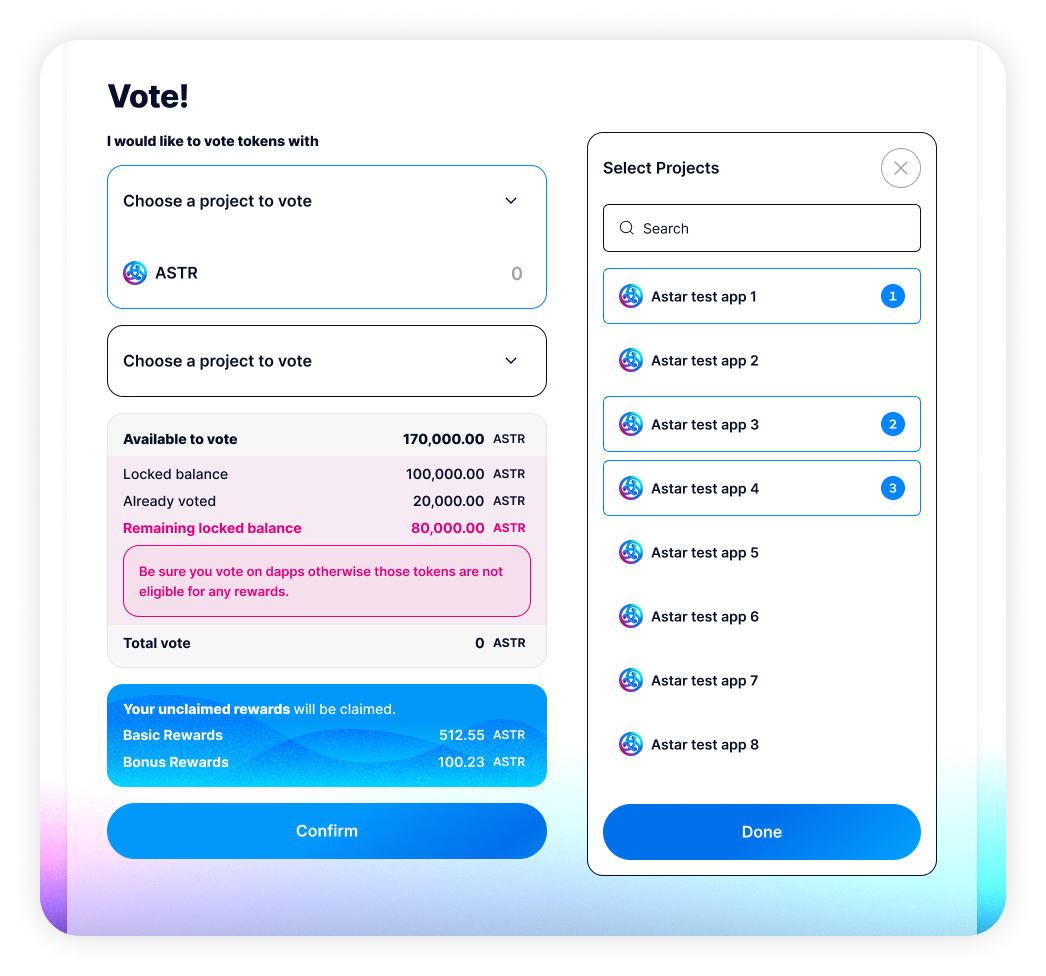
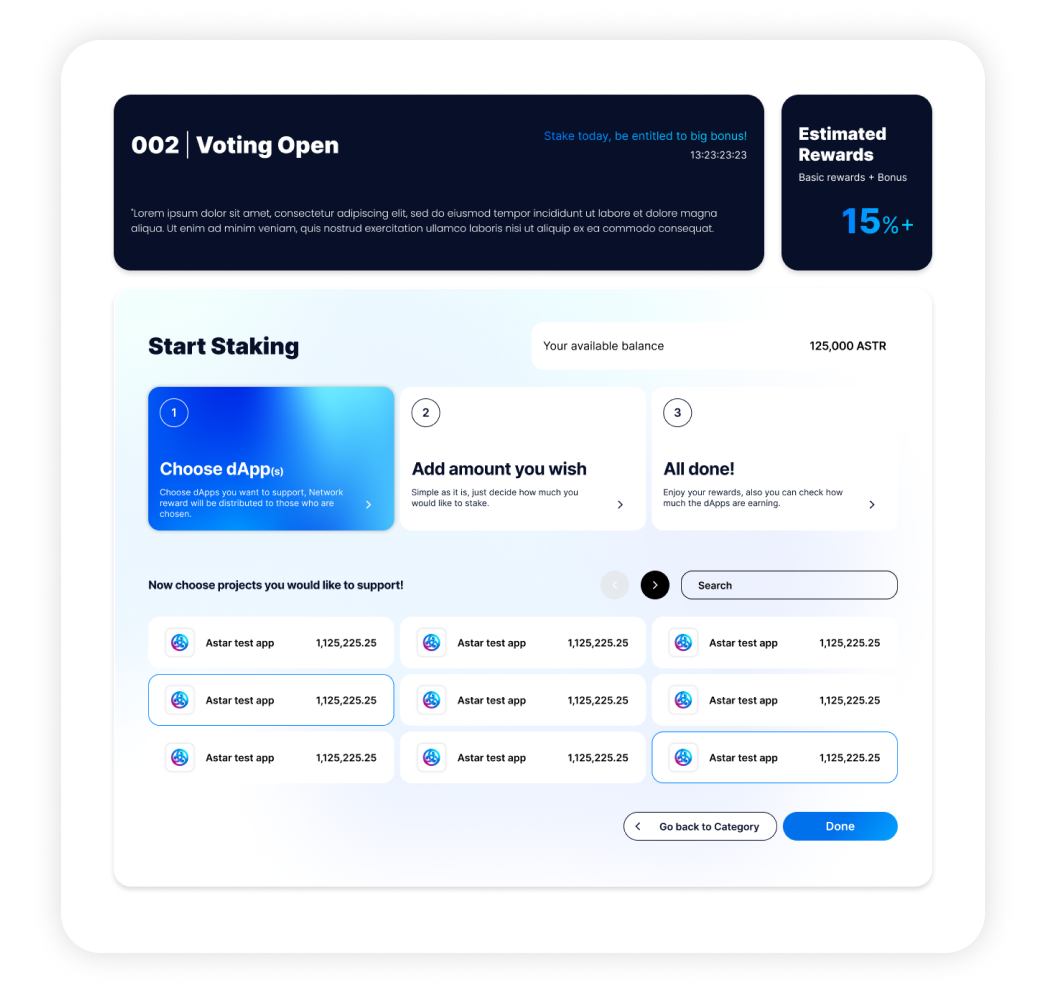
Updating dApp Staking documentation to reflect new user interface

diff --git a/docs/use/dapp-staking/for-stakers/staking.md b/docs/use/dapp-staking/for-stakers/staking.md
@@ -48,17 +48,18 @@ An address can only stake on a maximum of 16 contracts (dApps).
 
 1) On the [dApp staking](https://portal.astar.network/astar/dapp-staking/discover) page, you can either:
 
-- Click on the `Vote/Stake today` button;
+- Click on the `Choose dApp(s)` button;
 - Select your favorite project and click on the `Vote & Stake` button on the project page;
 
 <Figure src={require('/docs/use/dapp-staking/for-stakers/img/Vote_Page.png').default } width="100%" /> 
 
-2) Once on the voting page, you can choose up to 16 projects that you would like to support;
-
+2) You can choose up to 16 projects that you would like to support;  
+After making your selection, click `Done` to proceed to the next step;
 
 <Figure src={require('/docs/use/dapp-staking/for-stakers/img/Staking_Page.png').default } width="85%" /> 
 
-3) To stake, enter the desired amount of tokens for the dApp(s) you have chosen. This may be the same or a different amount for each.
+3) Enter the desired amount of tokens for the dApp(s) you have chosen. This may be the same or a different amount for each.  
+After entering the amount(s), click `Next` to continue;
 
 :::tip
 
@@ -70,8 +71,11 @@ Make sure to always keep some tokens free for gas manage to claim your rewards.
 
 :::note
 
-You can see how many tokens you have available to stake from **transferable** or **locked balances** in the section above the `Confirm` button;
+You can see how many tokens you have available to stake from **transferable** or **locked balances** at the bottom of the page;
 
 :::
 
-5) Confirm your decisions by clicking on `Confirm` and sign the transaction on the network;
+5) Review your choice and confirm your decisions by clicking on `Confirm` and sign the transaction on the network;  
+If you have unclaimed rewards, clicking `Confirm` will claim and transfer them to your address.
+
+<Figure src={require('/docs/use/dapp-staking/for-stakers/img/Staking_Page_3.png').default } width="85%" /> 

diff --git a/docs/use/dapp-staking/for-stakers/manage-dApp-Staking.md b/docs/use/dapp-staking/for-stakers/manage-dApp-Staking.md
@@ -28,6 +28,14 @@ If you have a lot of unclaimed rewards (`Eras`), you may have to make several `C
 
 All pending rewards on a dApp must be claimed before staking again.
 
+:::tip
+
+You can manage your rewards from the dApp Staking page and collect them by clicking the **Claim Button** and signing the transaction.
+
+<Figure src={require('/docs/use/dapp-staking/for-stakers/img/Claiming_Rewards.png').default } width="100%" /> 
+
+:::
+
 ### My dApps Panel:
 
 My dApps Panel is where you can see all dApps you have staked with and manage your stake.

diff --git a/docs/use/dapp-staking/for-stakers/move-staked-tokens.md b/docs/use/dapp-staking/for-stakers/move-staked-tokens.md
@@ -15,7 +15,7 @@ Once your tokens have been staked on a dApp, you always have the option of recon
 
 3) Select the dApp(s) to which you want to `Move` your tokens and enter the desired amount;
 
-<Figure src={require('/docs/use/dapp-staking/for-stakers/img/Staking_Page_3.png').default } width="85%" /> 
+<Figure src={require('/docs/use/dapp-staking/for-stakers/img/Move_Stake_Page.png').default } width="85%" /> 
 
 4) Confirm your decisions by clicking on the **Confirm Button** and sign the transaction on the network;
 
